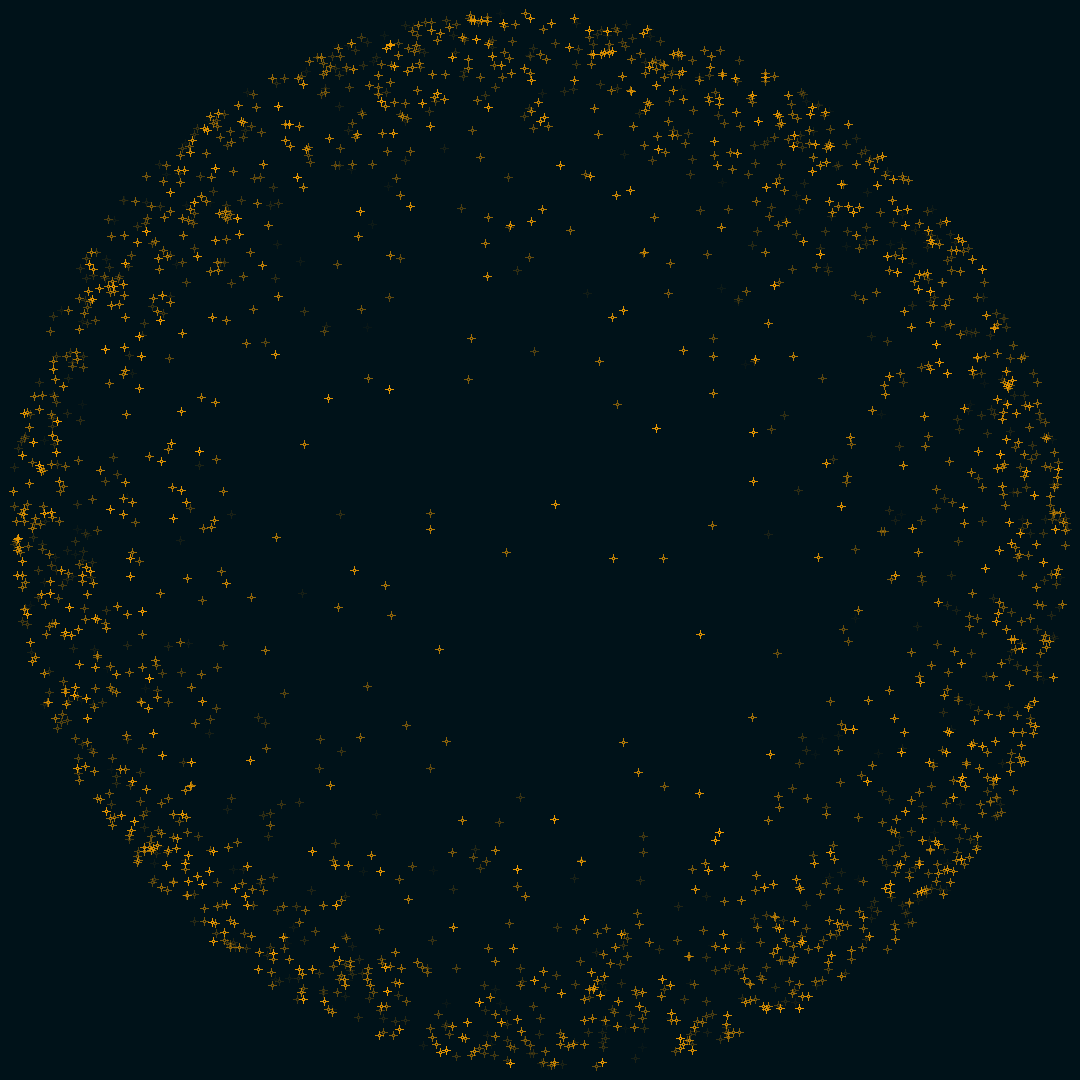
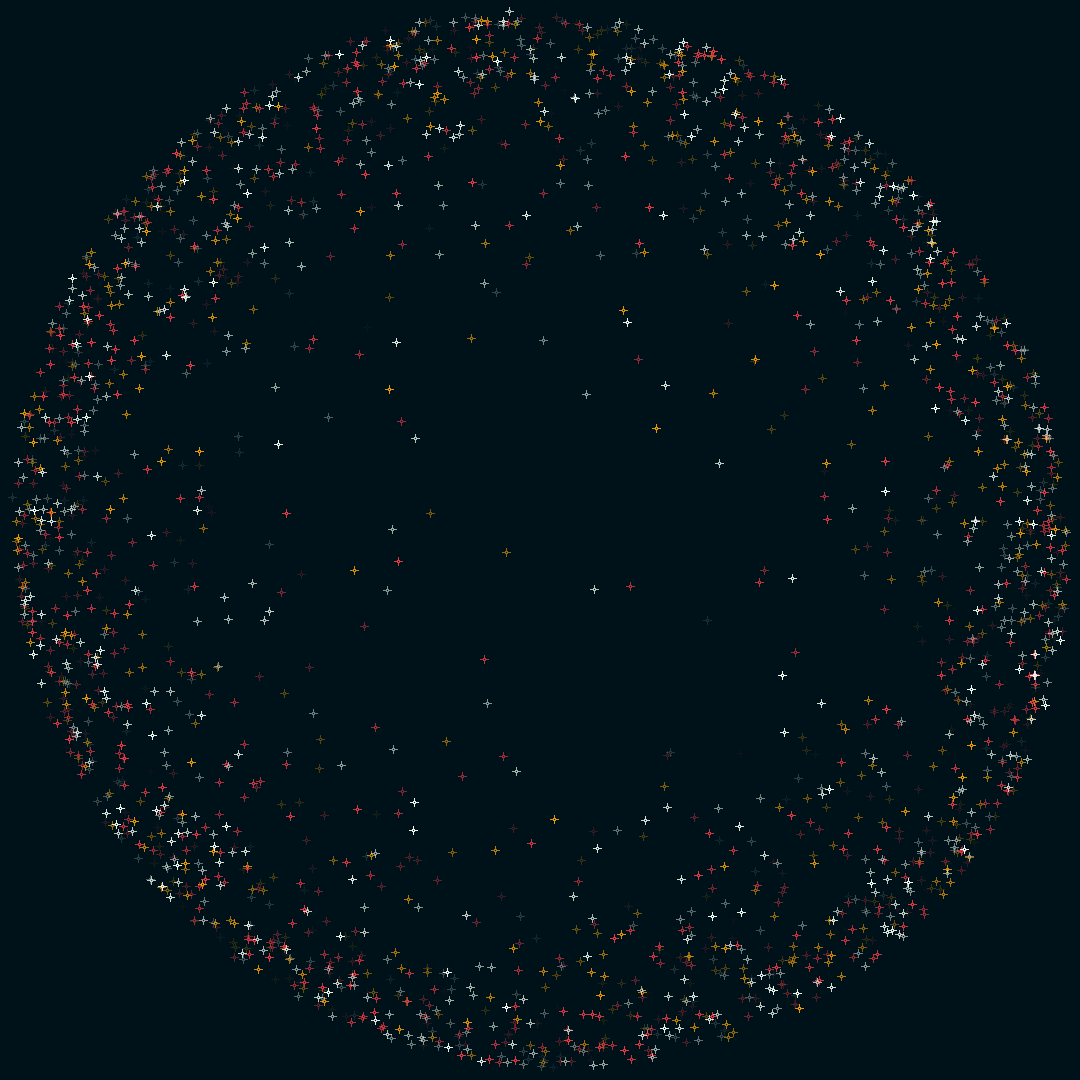
Changed my mind, combined all previous images

diff --git a/src/bin/day017/main.rs b/src/bin/day017/main.rs
@@ -49,9 +49,8 @@ fn main() {
     let bg = vec![&palette4[0], &palette1[4], &palette1[4], &palette2[6]];
     let color = vec![&palette4[2], &palette1[0], &palette1[1], &palette2[0]];
 
-    
+    let mut image = image::RgbaImage::from_pixel(width, height, *bg[0]);
     for k in 0..3 {
-        let mut image = image::RgbaImage::from_pixel(width, height, *bg[k]);
         let transform = TransformMatrix {
             xx: width as f64 / 20.0,
             yx: 1.0,//((i % 2_u32) as f64).signum() * i_bound as f64,
@@ -61,7 +60,7 @@ fn main() {
             y0: height as f64 / 2.0,
         };
 
-        let density: u32 = rng.gen_range(2000..2500);
+        let density: u32 = rng.gen_range(500..1000);
         for _j in 0..density {
             let p = random_point_circular(50.0, &mut rng);
             let (x, y) = p.point_to_canvas_coordinate(&transform);
@@ -76,8 +75,9 @@ fn main() {
                 }
             }
         }
-        image.save(format!("images/day017-{}.png", k)).unwrap();
+        
     }
+    image.save(format!("images/day017-{}.png", 0)).unwrap();
 }
 
 fn point_is_visible(x: u32, y: u32, width: u32, height: u32) -> bool {
